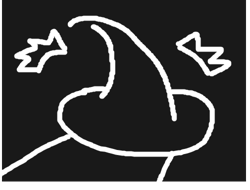
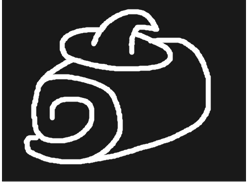
调整效果，增加若干卡图

Changed region(s): [[0.0, 0.0263, 0.924, 0.9737]]

diff --git a/src/main/java/hatmagicianmod/cards/DreamEater.java b/src/main/java/hatmagicianmod/cards/DreamEater.java
@@ -1,0 +1,95 @@
+package hatmagicianmod.cards;
+
+import basemod.abstracts.CustomCard;
+import com.megacrit.cardcrawl.actions.AbstractGameAction;
+import com.megacrit.cardcrawl.actions.common.DamageAction;
+import com.megacrit.cardcrawl.actions.common.MakeTempCardInHandAction;
+import com.megacrit.cardcrawl.cards.AbstractCard;
+import com.megacrit.cardcrawl.cards.DamageInfo;
+import com.megacrit.cardcrawl.characters.AbstractPlayer;
+import com.megacrit.cardcrawl.core.CardCrawlGame;
+import com.megacrit.cardcrawl.dungeons.AbstractDungeon;
+import com.megacrit.cardcrawl.localization.CardStrings;
+import com.megacrit.cardcrawl.monsters.AbstractMonster;
+import com.megacrit.cardcrawl.powers.AbstractPower;
+import hatmagicianmod.characters.MyCharacter;
+import hatmagicianmod.helpers.ModHelper;
+
+import java.util.ArrayList;
+
+public class DreamEater extends CustomCard {
+
+    public static final String ID;
+    private static final CardStrings CARD_STRINGS;
+    private static final String IMG_PATH;
+    private static final int COST = 1;
+    private static final CardType TYPE = CardType.ATTACK;
+
+    static {
+        String name = "DreamEater";
+        ID = ModHelper.makeID(name);
+        CARD_STRINGS = CardCrawlGame.languagePack.getCardStrings(ID);
+        IMG_PATH = ModHelper.makeCardImgPath(TYPE, "Beta");
+    }
+
+    public DreamEater() {
+        super(ID, CARD_STRINGS.NAME, IMG_PATH, COST, CARD_STRINGS.DESCRIPTION, TYPE, ModHelper.color(), CardRarity.COMMON, CardTarget.ENEMY);
+        this.baseDamage = 8;
+        this.tags.add(MyCharacter.PlayerCardTags.HAT_MAGICIAN_SLEEP);
+        this.cardsToPreview = new IsSleep();
+    }
+
+    @Override
+    public void upgrade() {
+        if (!this.upgraded) {
+            this.upgradeName();
+            this.upgradeDamage(4);
+        }
+    }
+
+    @Override
+    public void calculateCardDamage(AbstractMonster mo) {
+        AbstractPlayer player = AbstractDungeon.player;
+        ArrayList<AbstractPower> tmp_list = new ArrayList<>();
+
+        for (AbstractPower p : player.powers) {
+            if (p.ID.equals(ModHelper.makeID("TempStrengthPower"))) {
+                p.amount = -p.amount;
+                tmp_list.add(p);
+            }
+        }
+
+        super.calculateCardDamage(mo);
+
+        for (AbstractPower p : tmp_list) {
+            p.amount = -p.amount;
+        }
+
+    }
+
+    public void applyPowers() {
+        AbstractPlayer player = AbstractDungeon.player;
+        ArrayList<AbstractPower> tmp_list = new ArrayList<>();
+
+        for (AbstractPower p : player.powers) {
+            if (p.ID.equals(ModHelper.makeID("TempStrengthPower"))) {
+                p.amount = -p.amount;
+                tmp_list.add(p);
+            }
+        }
+
+        super.applyPowers();
+
+        for (AbstractPower p : tmp_list) {
+            p.amount = -p.amount;
+        }
+
+    }
+
+    @Override
+    public void use(AbstractPlayer p, AbstractMonster m) {
+        this.addToBot(new DamageAction(m, new DamageInfo(p, this.damage, this.damageTypeForTurn), AbstractGameAction.AttackEffect.POISON));
+        AbstractCard c = new IsSleep();
+        this.addToBot(new MakeTempCardInHandAction(c));
+    }
+}

diff --git a/src/main/java/hatmagicianmod/cards/Rest.java b/src/main/java/hatmagicianmod/cards/Rest.java
@@ -6,6 +6,7 @@ import com.megacrit.cardcrawl.actions.common.HealAction;
 import com.megacrit.cardcrawl.cards.AbstractCard;
 import com.megacrit.cardcrawl.characters.AbstractPlayer;
 import com.megacrit.cardcrawl.core.CardCrawlGame;
+import com.megacrit.cardcrawl.dungeons.AbstractDungeon;
 import com.megacrit.cardcrawl.localization.CardStrings;
 import com.megacrit.cardcrawl.monsters.AbstractMonster;
 import hatmagicianmod.characters.MyCharacter;
@@ -20,13 +21,11 @@ public class Rest extends CustomCard {
     private static final int COST = 1;
     private static final CardType TYPE = CardType.SKILL;
 
-    private boolean is_can_use;
-
     static {
         String name = "Rest";
         ID = ModHelper.makeID(name);
         CARD_STRINGS = CardCrawlGame.languagePack.getCardStrings(ID);
-        IMG_PATH = ModHelper.makeCardImgPath(TYPE, "Beta");
+        IMG_PATH = ModHelper.makeCardImgPath(TYPE, name);
     }
 
     public Rest() {
@@ -35,7 +34,6 @@ public class Rest extends CustomCard {
         this.magicNumber = this.baseMagicNumber = 7;
         this.exhaust = true;
         this.isEthereal = true;
-        this.is_can_use = true;
         this.cardsToPreview = new IsSleep();
     }
 
@@ -44,6 +42,8 @@ public class Rest extends CustomCard {
         if (!this.upgraded) {
             this.upgradeName();
             this.upgradeMagicNumber(3);
+//            this.rawDescription = CARD_STRINGS.UPGRADE_DESCRIPTION;
+//            this.initializeDescription();
         }
     }
 
@@ -58,7 +58,7 @@ public class Rest extends CustomCard {
         boolean canUse = super.canUse(p, m);
         if (canUse) {
 
-            if (this.is_can_use) {
+            if (this.calcCanUse()) {
                 return true;
             }
 
@@ -68,31 +68,15 @@ public class Rest extends CustomCard {
     }
 
     public void triggerOnGlowCheck() {
-        this.glowColor = AbstractCard.BLUE_BORDER_GLOW_COLOR.cpy();
+        this.glowColor = this.calcCanUse() ? AbstractCard.GOLD_BORDER_GLOW_COLOR.cpy() : AbstractCard.BLUE_BORDER_GLOW_COLOR.cpy();
+    }
 
-        if (this.is_can_use) {
-            this.glowColor = AbstractCard.GOLD_BORDER_GLOW_COLOR.cpy();
+    private boolean calcCanUse() {
+        for (AbstractCard c : AbstractDungeon.actionManager.cardsPlayedThisTurn) {
+            if (!c.hasTag(MyCharacter.PlayerCardTags.HAT_MAGICIAN_SLEEP)) {
+                return false;
+            }
         }
-
-    }
-
-    @Override
-    public void triggerOnOtherCardPlayed(AbstractCard c) {
-        super.triggerOnOtherCardPlayed(c);
-        if (!c.hasTag(MyCharacter.PlayerCardTags.HAT_MAGICIAN_SLEEP)) {
-            this.is_can_use = false;
-        }
-    }
-
-    @Override
-    public void onMoveToDiscard() {
-        super.onMoveToDiscard();
-        this.is_can_use = true;
-    }
-
-    @Override
-    public void triggerOnExhaust() {
-        super.triggerOnExhaust();
-        this.is_can_use = true;
+        return true;
     }
 }

diff --git a/src/main/java/hatmagicianmod/cards/Melt.java b/src/main/java/hatmagicianmod/cards/Melt.java
@@ -1,11 +1,13 @@
 package hatmagicianmod.cards;
 
 import basemod.abstracts.CustomCard;
+import com.megacrit.cardcrawl.cards.AbstractCard;
 import com.megacrit.cardcrawl.characters.AbstractPlayer;
 import com.megacrit.cardcrawl.core.CardCrawlGame;
 import com.megacrit.cardcrawl.localization.CardStrings;
 import com.megacrit.cardcrawl.monsters.AbstractMonster;
 import hatmagicianmod.actions.MeltAction;
+import hatmagicianmod.characters.MyCharacter;
 import hatmagicianmod.helpers.ModHelper;
 
 public class Melt extends CustomCard {
@@ -39,5 +41,14 @@ public class Melt extends CustomCard {
     @Override
     public void use(AbstractPlayer p, AbstractMonster m) {
         this.addToBot(new MeltAction());
+    }
+
+
+    // 是否印记牌
+    public static boolean checkCardTag(AbstractCard c) {
+        if (c != null) {
+            return c.hasTag(MyCharacter.PlayerCardTags.HAT_MAGICIAN_BRAND);
+        }
+        return false;
     }
 }

diff --git a/src/main/java/hatmagicianmod/actions/MeltAction.java b/src/main/java/hatmagicianmod/actions/MeltAction.java
@@ -11,8 +11,7 @@ import com.megacrit.cardcrawl.dungeons.AbstractDungeon;
 import com.megacrit.cardcrawl.localization.UIStrings;
 import com.megacrit.cardcrawl.ui.panels.EnergyPanel;
 import hatmagicianmod.cards.BlankBrand;
-import hatmagicianmod.cards.Charge;
-import hatmagicianmod.characters.MyCharacter;
+import hatmagicianmod.cards.Melt;
 
 public class MeltAction extends AbstractGameAction{
     private static final UIStrings uiStrings;
@@ -67,7 +66,7 @@ public class MeltAction extends AbstractGameAction{
 
         this.p.hand.moveToExhaustPile(c);
 
-        if (Charge.checkCardTag(c)) {
+        if (Melt.checkCardTag(c)) {
             AbstractCard card = new BlankBrand();
             this.addToTop(new MakeTempCardInHandAction(card));
         }

diff --git a/src/main/java/hatmagicianmod/actions/QuickIdeaAction.java b/src/main/java/hatmagicianmod/actions/QuickIdeaAction.java
@@ -9,9 +9,8 @@ import com.megacrit.cardcrawl.core.CardCrawlGame;
 import com.megacrit.cardcrawl.core.Settings;
 import com.megacrit.cardcrawl.dungeons.AbstractDungeon;
 import com.megacrit.cardcrawl.localization.UIStrings;
-import hatmagicianmod.cards.Charge;
 import hatmagicianmod.cards.MagicMark;
-import hatmagicianmod.characters.MyCharacter;
+import hatmagicianmod.cards.Melt;
 
 public class QuickIdeaAction extends AbstractGameAction {
     private static final UIStrings uiStrings;
@@ -74,7 +73,7 @@ public class QuickIdeaAction extends AbstractGameAction {
         this.addToBot(new DrawCardAction(this.draw_num));
 
         if (c != null) {
-            if (Charge.checkCardTag(c)) {
+            if (Melt.checkCardTag(c)) {
                 AbstractCard card = new MagicMark();
                 this.addToTop(new MakeTempCardInHandAction(card));
             }

diff --git a/src/main/java/hatmagicianmod/actions/RapidShieldAction.java b/src/main/java/hatmagicianmod/actions/RapidShieldAction.java
@@ -8,7 +8,7 @@ import com.megacrit.cardcrawl.core.CardCrawlGame;
 import com.megacrit.cardcrawl.core.Settings;
 import com.megacrit.cardcrawl.dungeons.AbstractDungeon;
 import com.megacrit.cardcrawl.localization.UIStrings;
-import hatmagicianmod.characters.MyCharacter;
+import hatmagicianmod.cards.Charge;
 
 public class RapidShieldAction extends AbstractGameAction {
     private static final UIStrings uiStrings;
@@ -65,7 +65,7 @@ public class RapidShieldAction extends AbstractGameAction {
         if (c != null) {
             this.p.hand.moveToExhaustPile(c);
 
-            if (c.tags.contains(MyCharacter.PlayerCardTags.HAT_MAGICIAN_BRAND)) {
+            if (Charge.checkCardTag(c)) {
                 final_block += this.ex_block;
             }
 

diff --git a/src/main/java/hatmagicianmod/cards/Yawn.java b/src/main/java/hatmagicianmod/cards/Yawn.java
@@ -23,11 +23,11 @@ public class Yawn extends CustomCard {
         String name = "Yawn";
         ID = ModHelper.makeID(name);
         CARD_STRINGS = CardCrawlGame.languagePack.getCardStrings(ID);
-        IMG_PATH = ModHelper.makeCardImgPath(TYPE, "Beta");
+        IMG_PATH = ModHelper.makeCardImgPath(TYPE, name);
     }
 
     public Yawn() {
-        super(ID, CARD_STRINGS.NAME, IMG_PATH, COST, CARD_STRINGS.DESCRIPTION, TYPE, ModHelper.color(), CardRarity.COMMON, CardTarget.SELF);
+        super(ID, CARD_STRINGS.NAME, IMG_PATH, COST, CARD_STRINGS.DESCRIPTION, TYPE, ModHelper.color(), CardRarity.UNCOMMON, CardTarget.SELF);
         this.baseBlock = 3;
         this.tags.add(MyCharacter.PlayerCardTags.HAT_MAGICIAN_SLEEP);
         this.exhaust = true;

diff --git a/src/main/java/hatmagicianmod/cards/Kite.java b/src/main/java/hatmagicianmod/cards/Kite.java
@@ -22,7 +22,7 @@ public class Kite extends CustomCard {
         String name = "Kite";
         ID = ModHelper.makeID(name);
         CARD_STRINGS = CardCrawlGame.languagePack.getCardStrings(ID);
-        IMG_PATH = ModHelper.makeCardImgPath(TYPE, "Beta");
+        IMG_PATH = ModHelper.makeCardImgPath(TYPE, name);
     }
 
     public Kite() {

diff --git a/src/main/java/hatmagicianmod/cards/OverloadBeam.java b/src/main/java/hatmagicianmod/cards/OverloadBeam.java
@@ -27,7 +27,7 @@ public class OverloadBeam extends CustomCard {
         String name = "OverloadBeam";
         ID = ModHelper.makeID(name);
         CARD_STRINGS = CardCrawlGame.languagePack.getCardStrings(ID);
-        IMG_PATH = ModHelper.makeCardImgPath(TYPE, "Beta");
+        IMG_PATH = ModHelper.makeCardImgPath(TYPE, name);
     }
 
     public OverloadBeam() {

diff --git a/src/main/java/hatmagicianmod/cards/Rolling.java b/src/main/java/hatmagicianmod/cards/Rolling.java
@@ -23,7 +23,7 @@ public class Rolling extends CustomCard {
         String name = "Rolling";
         ID = ModHelper.makeID(name);
         CARD_STRINGS = CardCrawlGame.languagePack.getCardStrings(ID);
-        IMG_PATH = ModHelper.makeCardImgPath(TYPE, "Beta");
+        IMG_PATH = ModHelper.makeCardImgPath(TYPE, name);
     }
 
     public Rolling() {